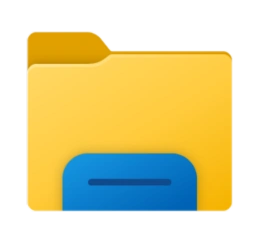
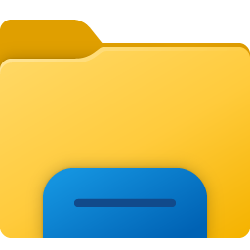
Added a clamp to image widths

diff --git a/index.html b/index.html
@@ -35,7 +35,6 @@
               <img
                 src="./assets/Windows_11_Start_Button.svg"
                 alt="Windows 11 Start icon"
-                width="24"
               />
             </button>
           </div>
@@ -58,21 +57,18 @@
               <img
                 src="./assets/Windows_11_Task_View_Icon.png"
                 alt="Task View icon"
-                width="31"
               />
             </button>
             <button class="taskbar-button">
               <img
                 src="./assets/File_Explorer_Icon.png"
                 alt="File Explorer icon"
-                width="32"
               />
             </button>
             <button class="taskbar-button">
               <img
                 src="./assets/microsoft-edge-icon.png"
                 alt="Microsoft Edge icon"
-                width="24"
               />
             </button>
           </div>

diff --git a/style.css b/style.css
@@ -131,6 +131,7 @@ button.taskbar-button {
 }
 
 button.taskbar-button img {
+  width: clamp(20px, 24px, 36px);
   transition: all 0.15s ease;
 }
 
@@ -254,17 +255,20 @@ button:active.taskbar-button img {
 
 /* I don't know how to shrink the elements in it yet */
 @media only screen and (orientation: landscape) and (max-width: 880px) {
+  * {
+    font-size: 0.98em;
+  }
   footer {
     /* grid-template-columns: repeat(3, minmax(0, 1fr)); */
     display: flex;
     justify-content: space-between;
   }
   #weather-button {
-    padding-right: 10px;
+    padding-right: 15px;
   }
   #search-box input {
     padding-right: 0;
-    width: 80px;
+    width: 100px;
   }
 }
 @media only screen and (orientation: landscape) and (max-width: 735px) {
